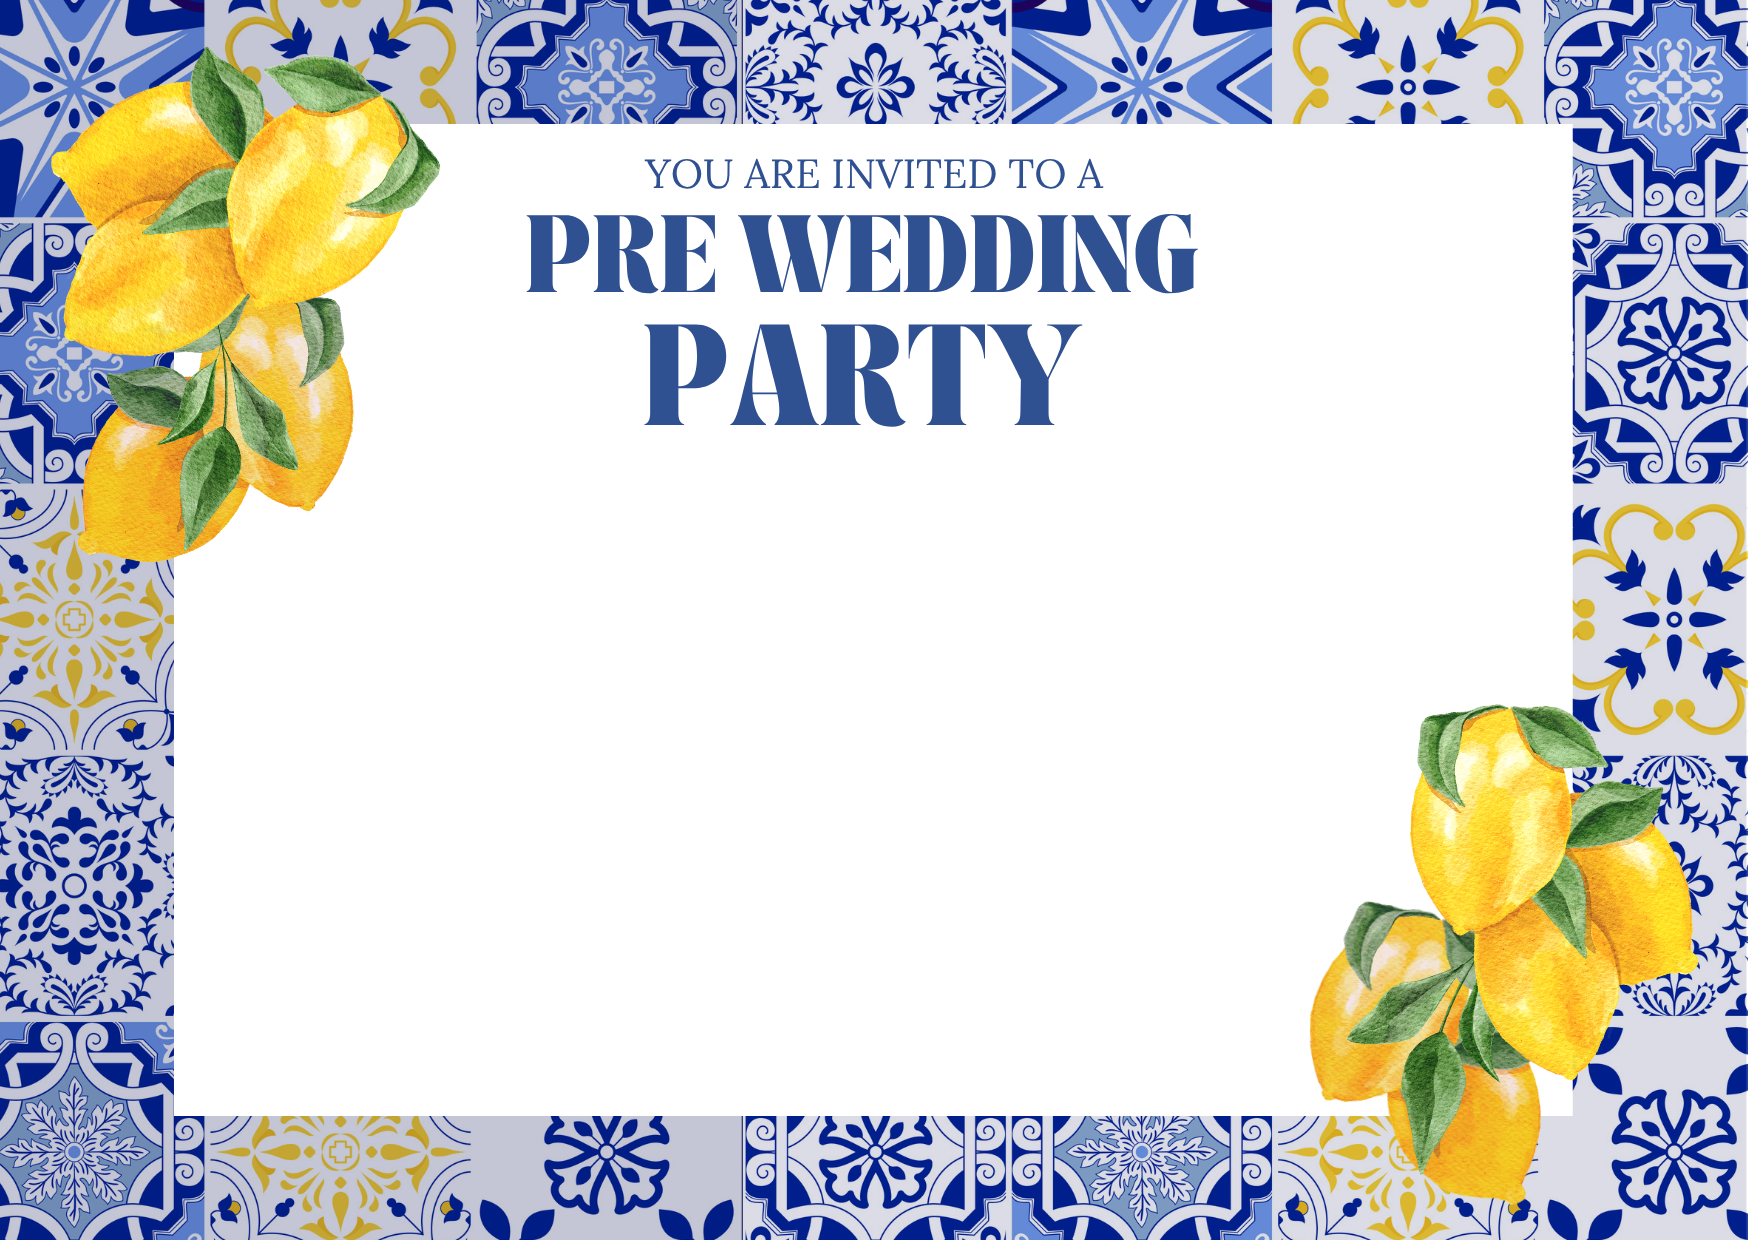
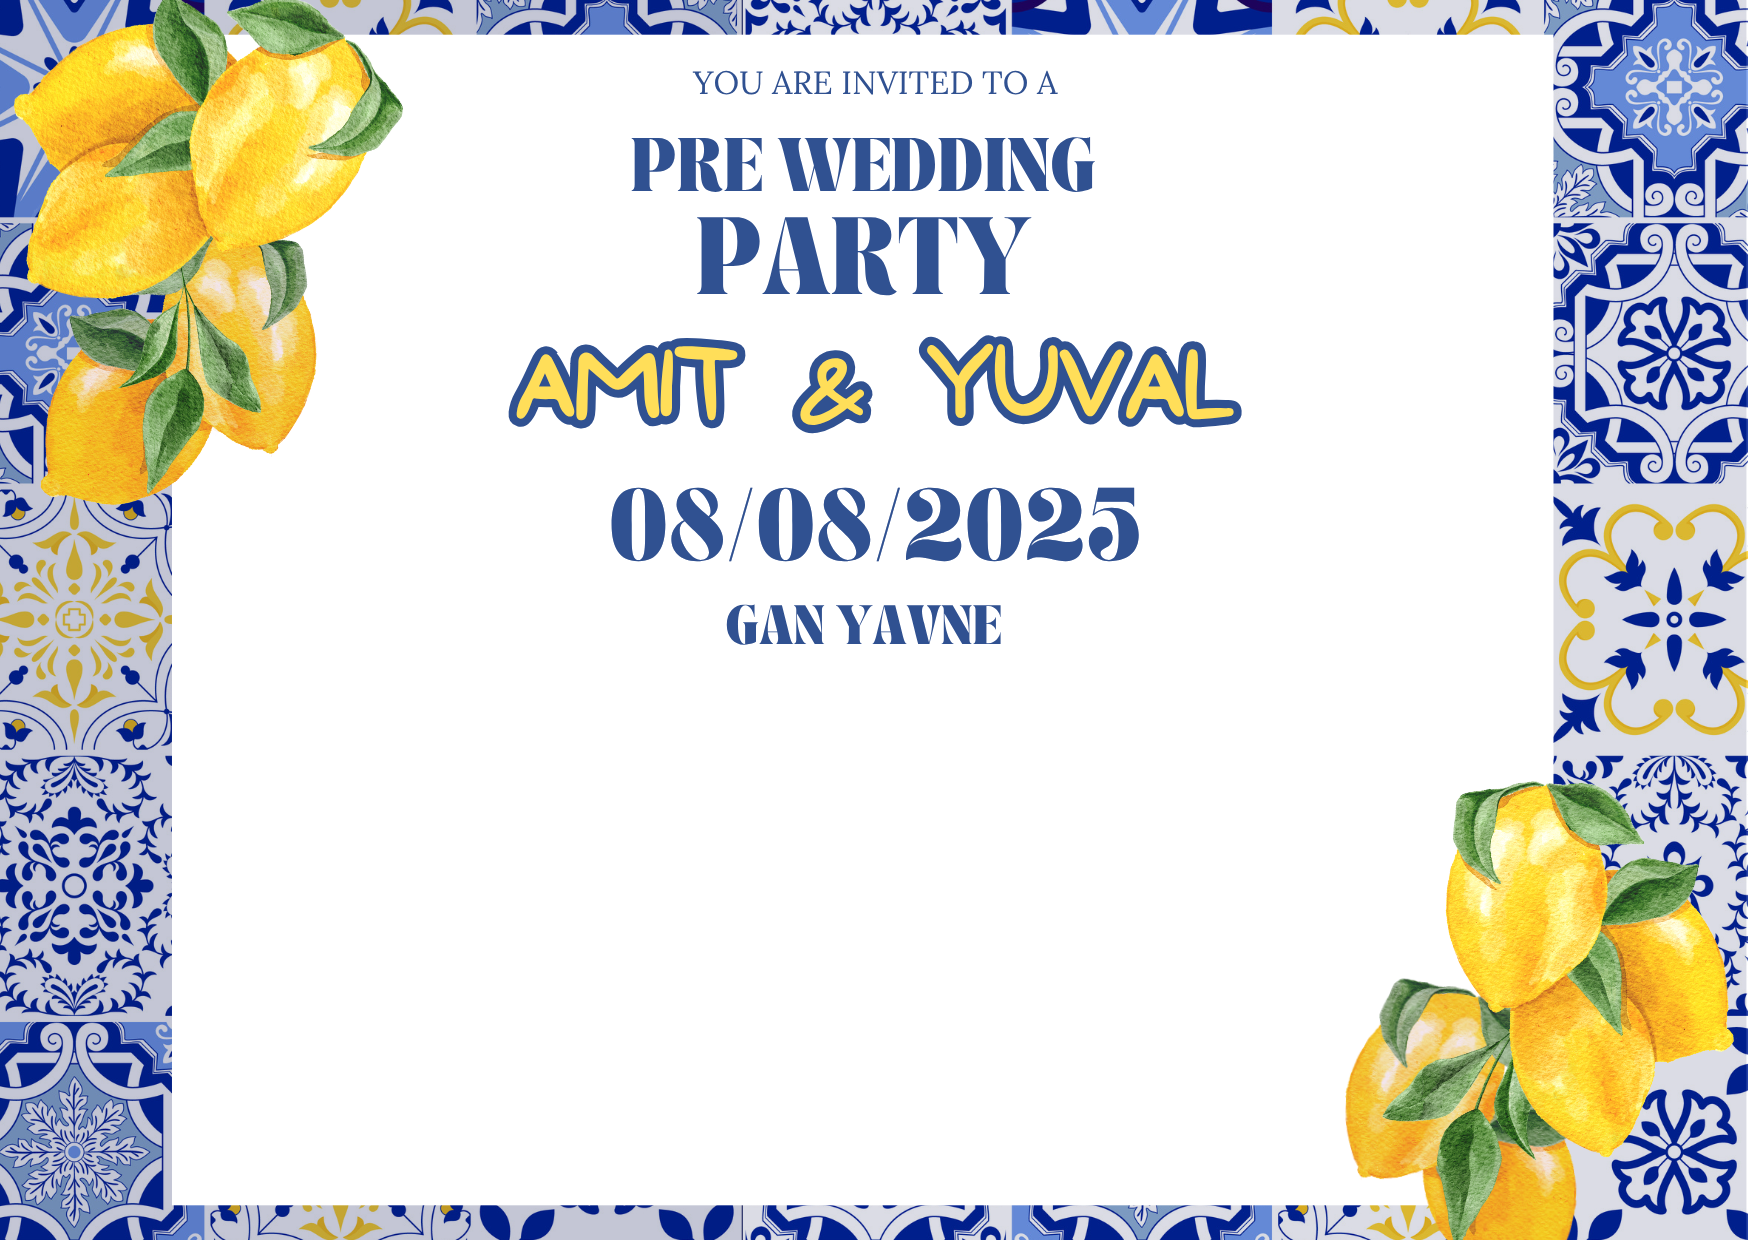
Add files via upload

Changed region(s): [[0.0, 0.0, 1.0, 1.0], [0.4016, 0.4903, 0.587, 0.521]]

diff --git a/index.html b/index.html
@@ -1,59 +1,52 @@
+
 <!DOCTYPE html>
 <html lang="he">
 <head>
   <meta charset="UTF-8">
   <title>Yuval and Amit - Pre Wedding Party!</title>
   <style>
-    body {
-      font-family: 'Arial', sans-serif;
-      background: url('https://images.unsplash.com/photo-1507525428034-b723cf961d3e?auto=format&fit=crop&w=1950&q=80') no-repeat center center fixed;
-      background-size: cover;
+    html, body {
+      margin: 0;
+      padding: 0;
+      height: 100%;
       direction: rtl;
+      font-family: 'Arial', sans-serif;
       text-align: center;
-      color: #fff;
-      padding: 50px 20px;
+      background: url('08082025.png') no-repeat center center;
+      background-size: contain;
+      background-color: #fff;
     }
 
     .container {
-      background-color: rgba(0, 0, 0, 0.6);
-      padding: 40px;
-      border-radius: 20px;
-      max-width: 500px;
-      margin: auto;
-    }
-
-    h1 {
-      font-size: 32px;
-      margin-bottom: 10px;
-    }
-
-    h2 {
-      font-size: 24px;
-      margin: 5px 0;
-    }
-
-    p {
-      font-size: 18px;
-      margin: 10px 0;
+      display: flex;
+      flex-direction: column;
+      justify-content: flex-end;
+      align-items: center;
+      height: 100%;
+      padding-bottom: 40px;
     }
 
     form {
-      margin-top: 30px;
+      background-color: rgba(255, 255, 255, 0.95);
+      padding: 20px 30px;
+      border-radius: 12px;
+      box-shadow: 0 0 10px rgba(0,0,0,0.2);
+      max-width: 400px;
+      width: 90%;
     }
 
     input, select, button {
       padding: 10px;
       margin: 10px auto;
-      width: 90%;
-      max-width: 300px;
-      display: block;
+      width: 100%;
       font-size: 16px;
-      border-radius: 8px;
-      border: none;
+      border-radius: 6px;
+      border: 1px solid #ccc;
+      display: block;
     }
 
     button {
-      background-color: #00a8a8;
+      background-color: #2b3a67;
       color: white;
       cursor: pointer;
     }
@@ -62,23 +55,12 @@
       display: none;
     }
 
-    #responseMsg {
-      margin-top: 20px;
-      font-weight: bold;
-    }
-
-    a {
-      color: #ffd700;
-      font-weight: bold;
-      text-decoration: underline;
-    }
-  
     .spinner {
       margin: 20px auto;
       width: 40px;
       height: 40px;
       border: 5px solid #ccc;
-      border-top: 5px solid #3498db; /* כחול */
+      border-top: 5px solid #3498db;
       border-radius: 50%;
       animation: spin 1s linear infinite;
       display: none;
@@ -89,18 +71,21 @@
       100% { transform: rotate(360deg); }
     }
 
+    #responseMsg {
+      margin-top: 20px;
+      font-weight: bold;
+    }
+
+    a {
+      color: #2b3a67;
+      text-decoration: underline;
+      font-weight: bold;
+    }
   </style>
 </head>
 <body>
 
   <div class="container">
-    <h1>You're invited to</h1>
-    <h1>Yuval and Amit</h1>
-    <h2>Pre wedding party</h2>
-    <p>📅 8.8 | 🕐 13:00 | 📍 Gan Yavne</p>
-    <p>🏛 Greek Pool Party</p>
-    <p>נשמח שתגיע!</p>
-
     <form id="rsvpForm">
       <input type="text" id="name" name="name" placeholder="השם שלך" required>
 
@@ -116,10 +101,9 @@
       </div>
 
       <button type="submit">שליחה</button>
+      <div id="spinner" class="spinner"></div>
+      <p id="responseMsg"></p>
     </form>
-
-    <p id="responseMsg"></p>
-    <div id="spinner" class="spinner"></div>
   </div>
 
   <script>
@@ -129,7 +113,7 @@
     const spinner = document.getElementById('spinner');
     const attendance = document.getElementById('attendance');
     const extra = document.getElementById('extra');
-  
+
     attendance.addEventListener('change', () => {
       if (attendance.value === 'מגיע/ה') {
         extra.style.display = 'block';
@@ -139,23 +123,22 @@
         document.getElementById('guests').required = false;
       }
     });
-  
+
     form.addEventListener('submit', e => {
       e.preventDefault();
-  
+
       const name = document.getElementById('name').value;
       const att = attendance.value;
       const guests = att === 'מגיע/ה' ? document.getElementById('guests').value : '';
-  
+
       const formData = new FormData();
       formData.append('name', name);
       formData.append('attendance', att);
       formData.append('guests', guests);
-  
-      // הצג את הספינר והנקה את ההודעה
+
       spinner.style.display = 'block';
       msg.textContent = '';
-  
+
       fetch(scriptURL, {
         method: 'POST',
         body: formData
@@ -180,6 +163,7 @@
         msg.textContent = "שגיאה בשליחה ❌";
       });
     });
-</script>
+  </script>
+
 </body>
 </html>
